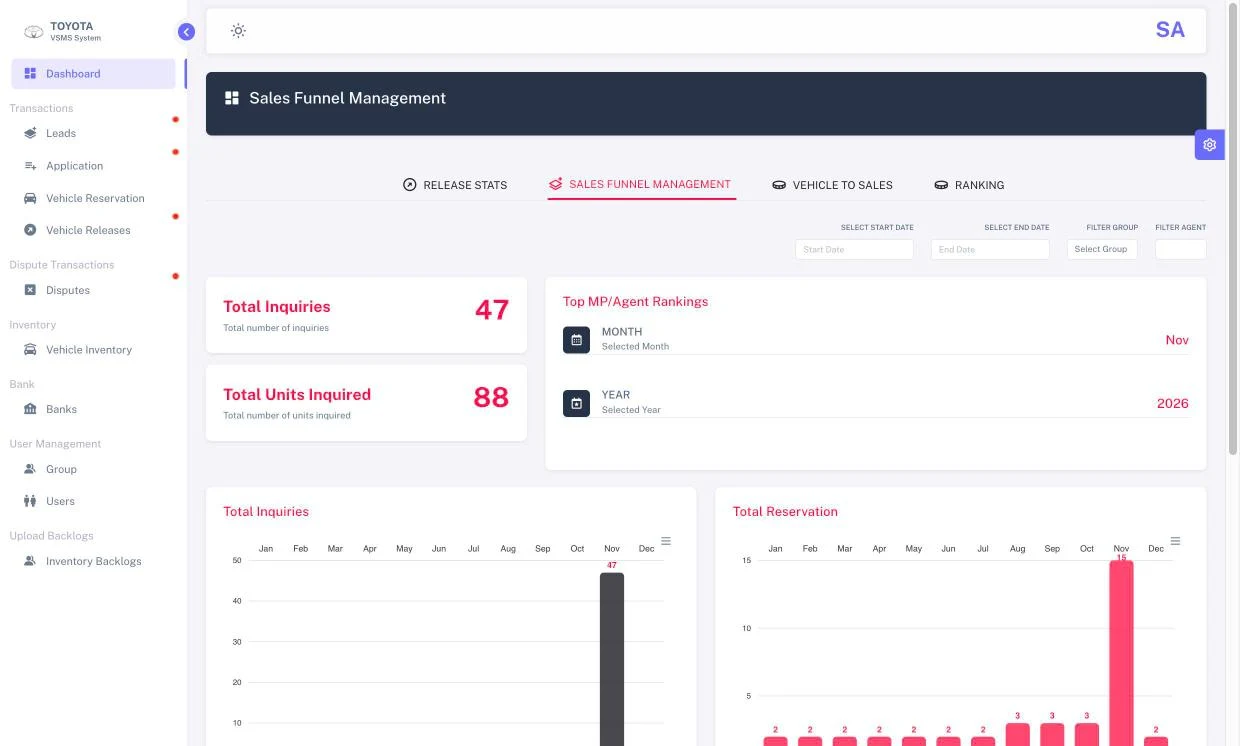
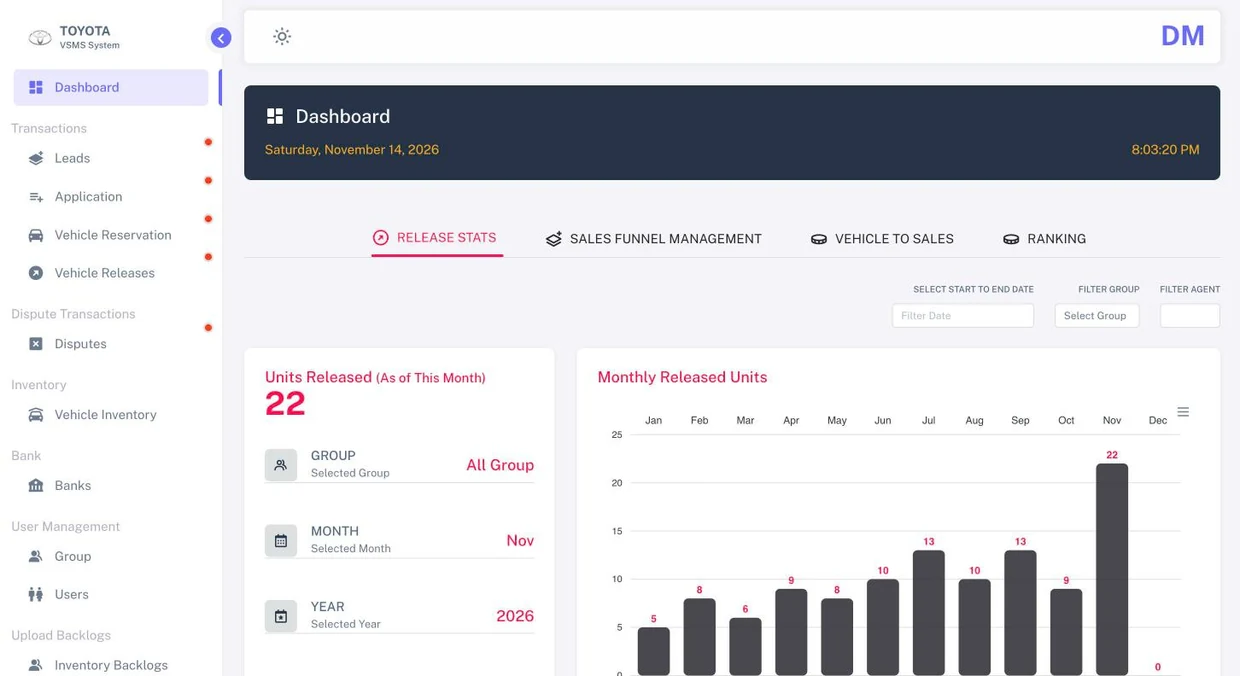
toyota project new screenshots

diff --git a/src/data/portfolio.js b/src/data/portfolio.js
@@ -130,7 +130,7 @@ export const projects = [
         ],
         overview: 'Toyota Albay’s sales team tracked leads and vehicles across Excel files, paper forms and group chats. I helped turn that into one system for 20–30 sales agents, designing the process flow, the database and the interface, and building across the frontend and backend.',
         repo: 'https://github.com/thomasAllene/Toyota_Albay_CRM_System',
-        heroShot: { label: 'Sales funnel dashboard', src: 'assets/img/projects/toyota-albay-crm/toyota-dashboard.webp' },
+        heroShot: { label: 'Sales dashboard, monthly released units', src: 'assets/img/projects/toyota-albay-crm/toyota-dashboard.webp' },
         stories: [
             { title: 'One pipeline instead of scattered files',
                 problem: 'Leads and vehicles lived in spreadsheets, logbooks and chat messages, so no one had the full picture.',
